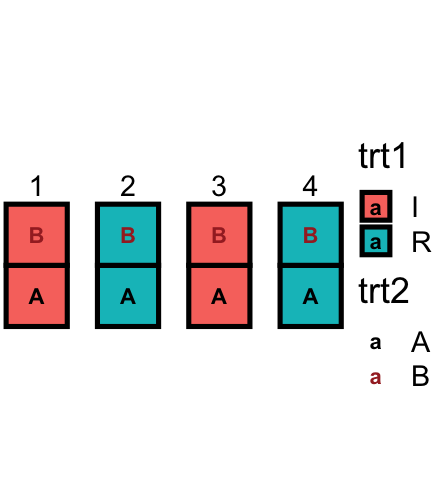
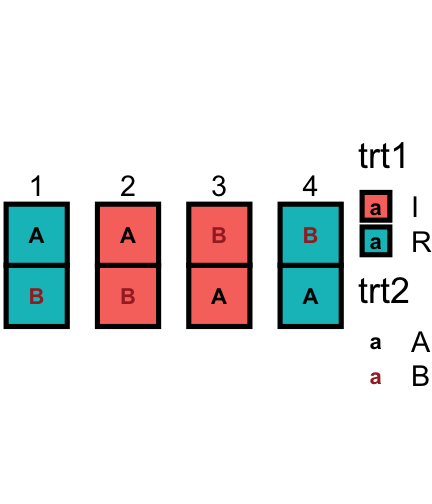
minor updates

Changed region(s): [[0.2106, 0.3869, 0.3611, 0.6548], [0.0, 0.3869, 0.1505, 0.6548]]

diff --git a/index.html b/index.html
@@ -944,7 +944,7 @@ class: bg-rladies animated slideInLeft middle white center
 
 .f2[We'll use the above package to draw faces.]
 
-Note: the above package was made for only demonstration purpose for this talk.
+Note: the above package was made for demonstration purpose only for this talk.
 
 
 ---
@@ -1569,7 +1569,7 @@ agricolae::.bg-yellow[design.split](trt1 = trt1, trt2 = trt2, r = 2, design = "c
 ## [1] 2
 ## 
 ## $parameters$seed
-## [1] -1855265822
+## [1] -1888132024
 ## 
 ## $parameters$kinds
 ## [1] "Super-Duper"
@@ -1577,10 +1577,10 @@ agricolae::.bg-yellow[design.split](trt1 = trt1, trt2 = trt2, r = 2, design = "c
 ## 
 ## $book
 ##   plots splots r trt1 trt2
-## 1   101      1 1    I    A
-## 2   101      2 1    I    B
-## 3   102      1 1    R    A
-## 4   102      2 1    R    B
+## 1   101      1 1    R    B
+## 2   101      2 1    R    A
+## 3   102      1 1    I    B
+## 4   102      2 1    I    A
 ## 5   103      1 2    I    A
 ## 6   103      2 2    I    B
 ## 7   104      1 2    R    A
@@ -1693,10 +1693,6 @@ A **plan** or **layout** is the design translated into actual units; randomisati
 
 
 
-
-.absolute.top-0.right-1[
-[&lt;i class="fas fa-caret-right"&gt;&lt;/i&gt;](#edibble)
-]
 
 
 .footnote[
@@ -2412,7 +2408,7 @@ ggplot(df4, aes(x, y, color = I(color))) +
 .flex[
 .w-60.pr3[
 .summary-box.w-100[
-* The &lt;span class="red"&gt;*grammar of experimental design*&lt;/span&gt; is a (programming language agnostic) framework that functionally maps the fundamental components of the experiment to an object oriented programming system to build and modify an experimental design, i.e. &lt;i class="red"&gt;reframes construction of experimental design using software&lt;/i&gt;
+* The &lt;span class="red"&gt;*grammar of experimental design*&lt;/span&gt; is a (programming language agnostic) framework that functionally maps the fundamental components of the experiment to an object oriented programming system to build and modify an experimental design, i.e. &lt;i class="red"&gt;reframes how we construct experimental design using software&lt;/i&gt;
 {{content}}
 ]
 ]
